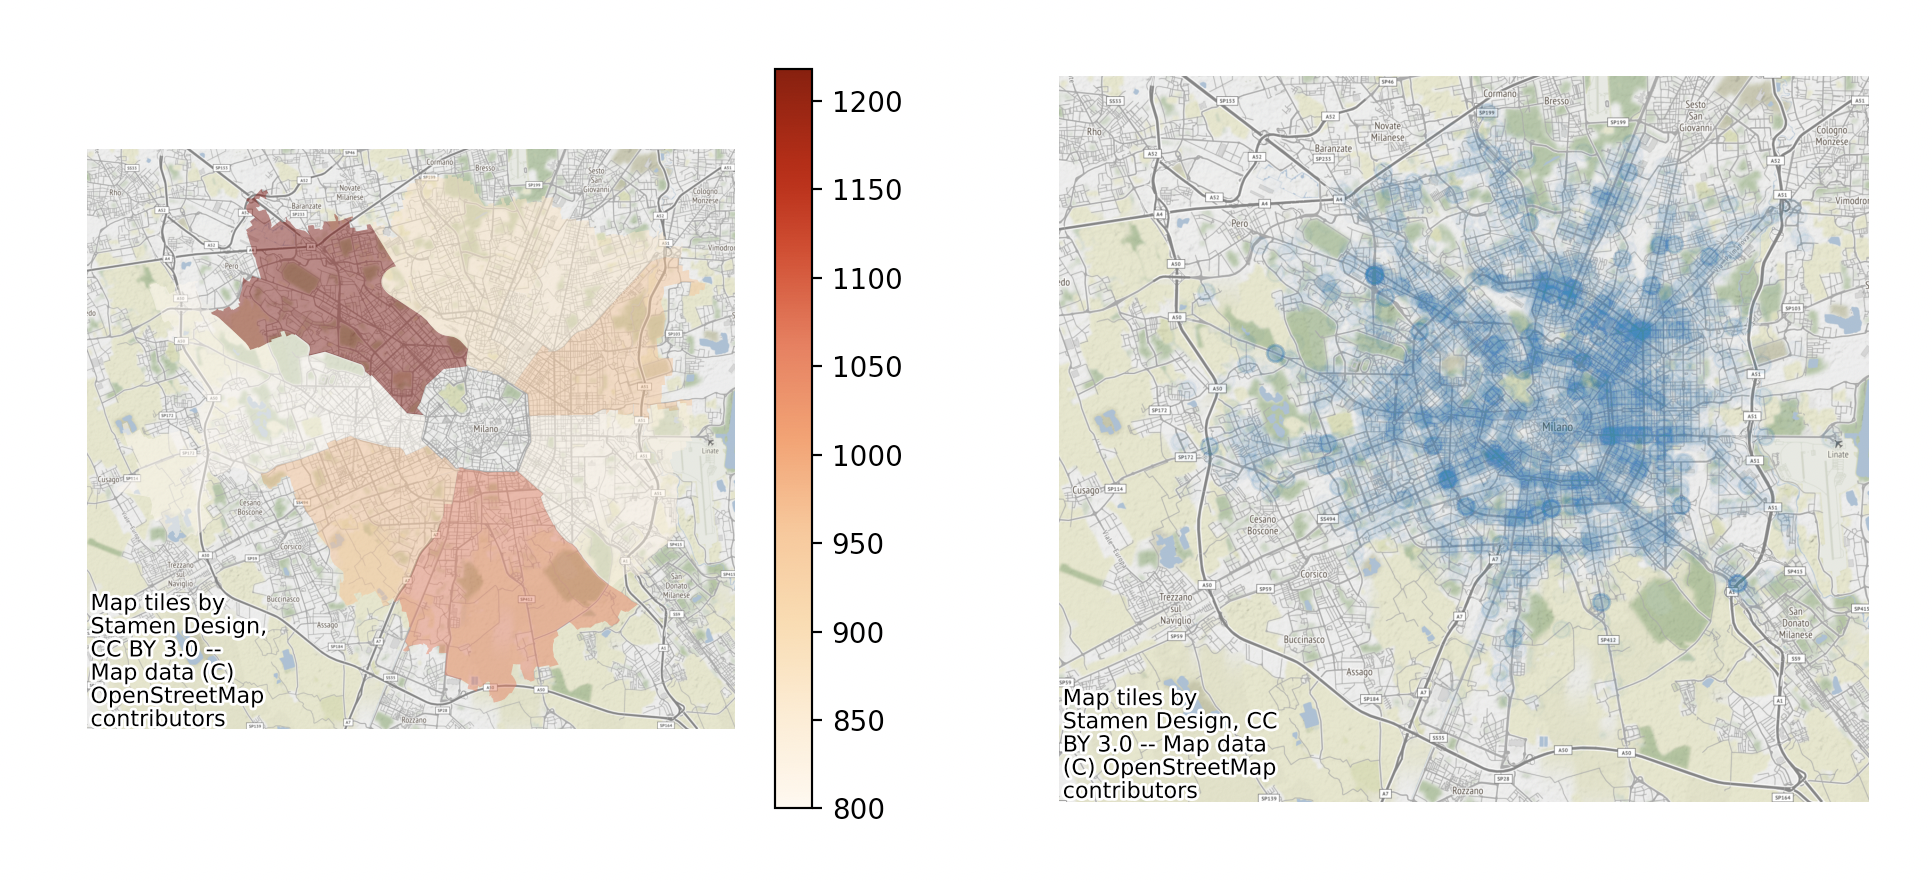
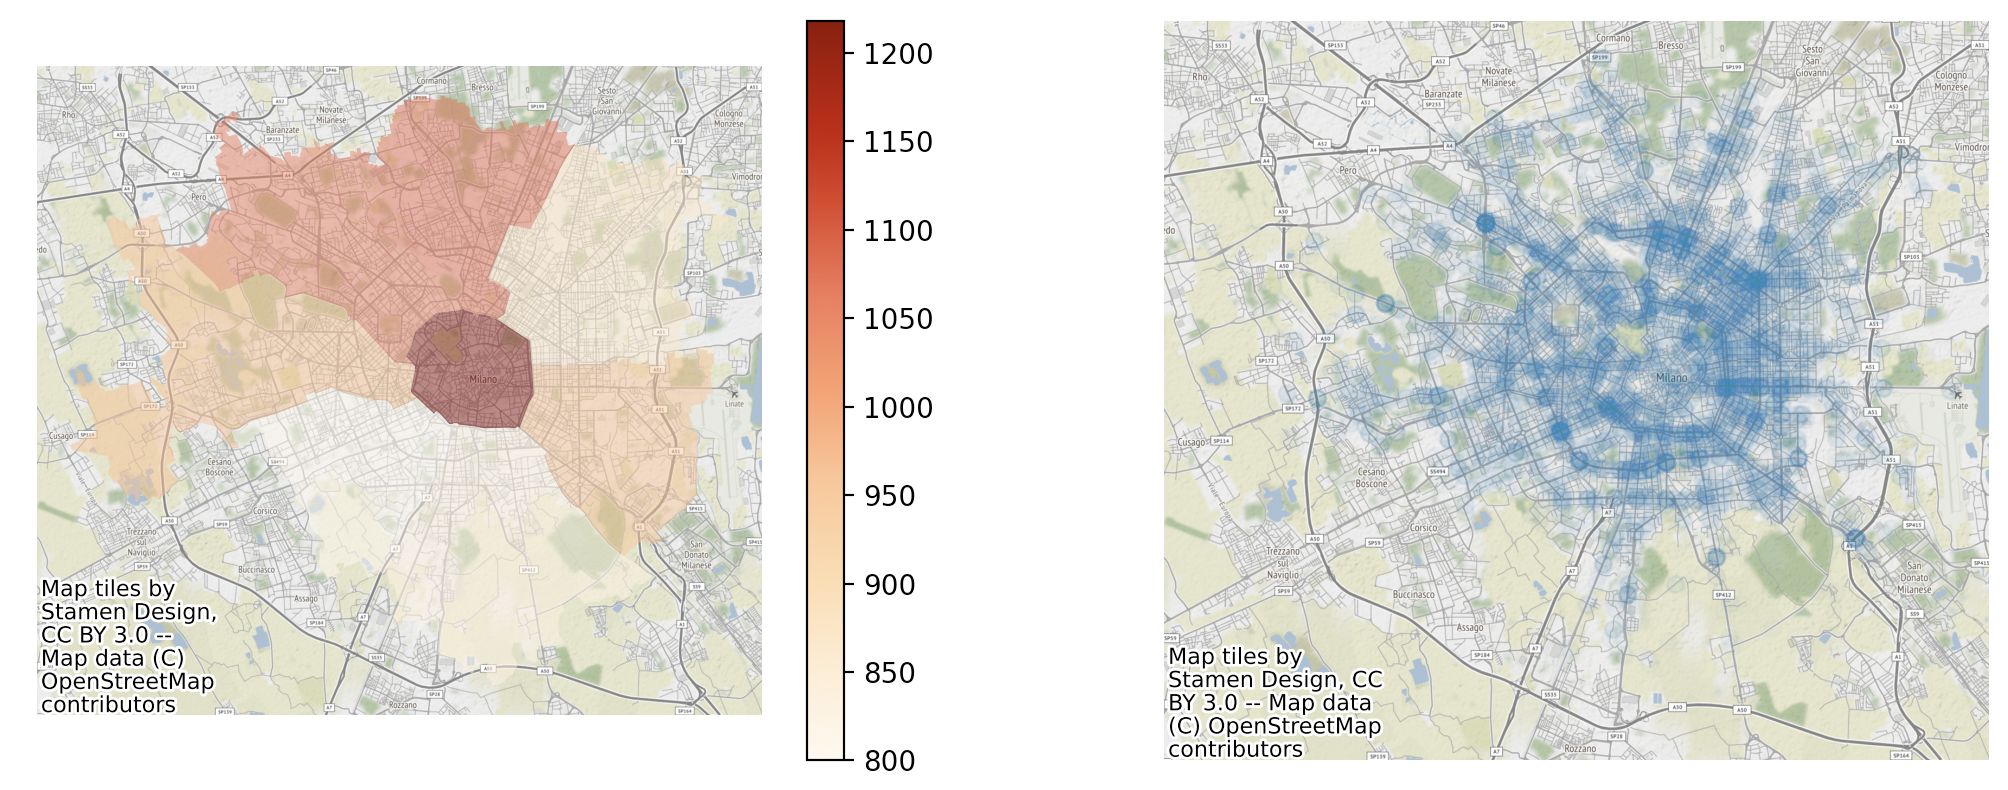
corretto errore in grafo

diff --git a/src/municipi_milano/incidenti_municipio.py b/src/municipi_milano/incidenti_municipio.py
@@ -25,8 +25,12 @@ for m, poly in zip(data['MUNICIPIO'], data['geometry']):
         if poly.contains(point): 
             df[m] += 1
 
+data.index = data['MUNICIPIO']
+
 inc = gp.GeoSeries(df).sort_index()
 data['Incidenti'] = inc
+
+print(data)
 
 fig, (ax1, ax2) = plt.subplots(ncols=2, sharex=True, sharey=True)
 ax1.axis('off')
